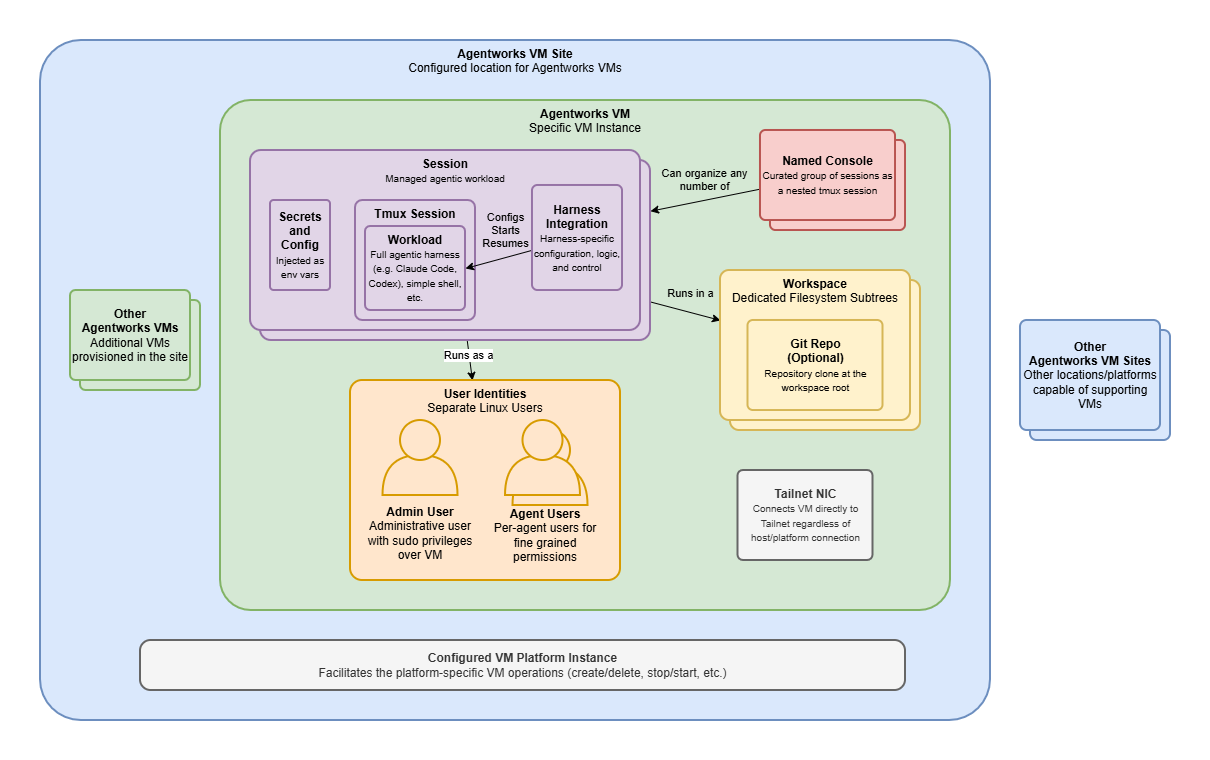
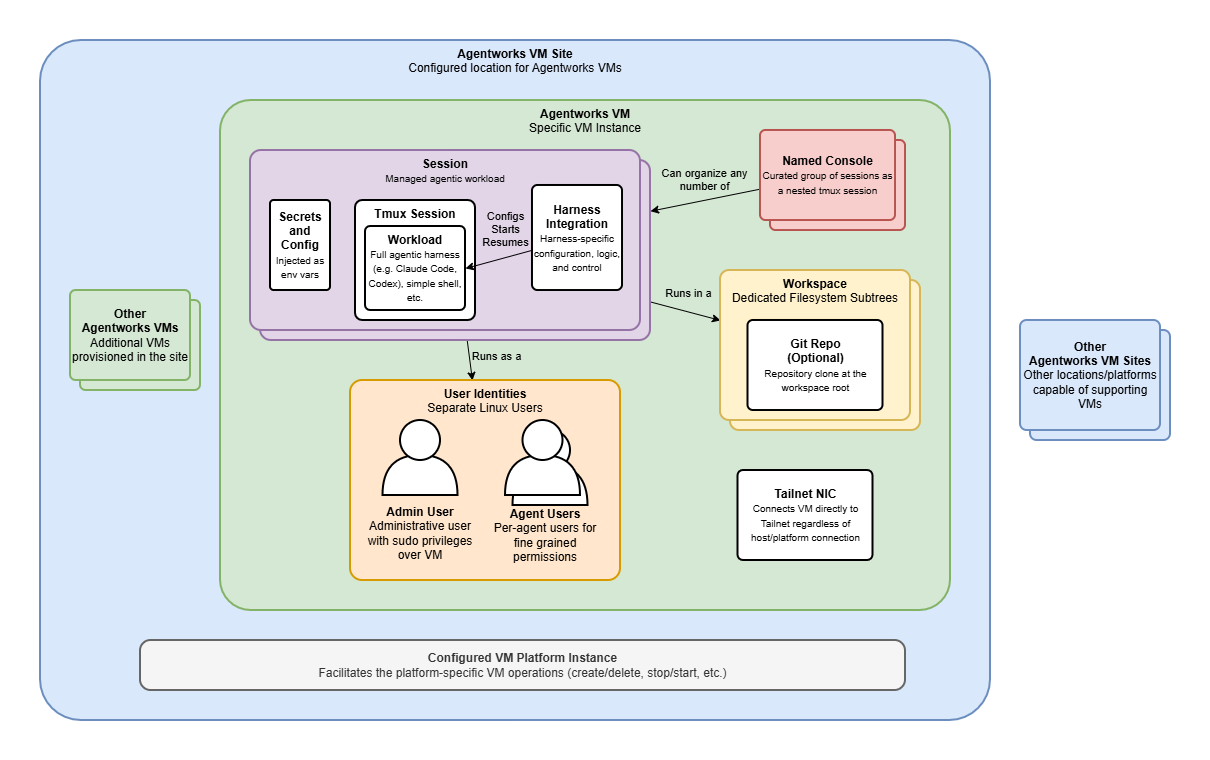
docs: refine agentic fleet overview

diff --git a/README.md b/README.md
@@ -10,11 +10,11 @@ harnesses, secrets/config, and the supporting systems that glue them together. B
 conviction that autonomy, security, and control are not mutually exclusive: a good platform makes it
 possible and straightforward to have it all.
 
-Run a fleet from one workstation. **Durable agents** keep their own software, git credentials, and
-accumulated application state (a coding assistant's context and memory, interactive logins), each as
-an isolated Linux user on a VM you control. **Disposable sessions** spin up against them for a
-single piece of work and are thrown away when done. One `agw` CLI drives all of it, declaratively,
-over an SSH-on-Tailscale control plane.
+Create and manage an agentic fleet from your own workstation. **Durable agents** run as separate
+Linux users in **VMs** on infrastructure you choose and control. They retain their own tools, git
+credentials, and accumulated application state (a coding assistant's context and memory, interactive
+logins). **Disposable sessions** spin up against them for a single piece of work and are thrown away
+when done. One `agw` CLI drives all of it declaratively via an SSH-over-Tailscale control plane.
 
 ## Architecture at a Glance
 
